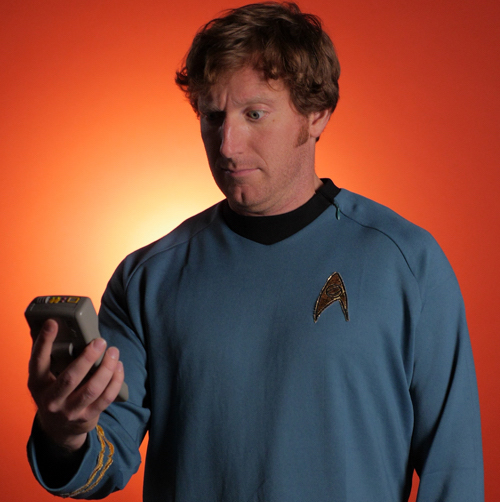
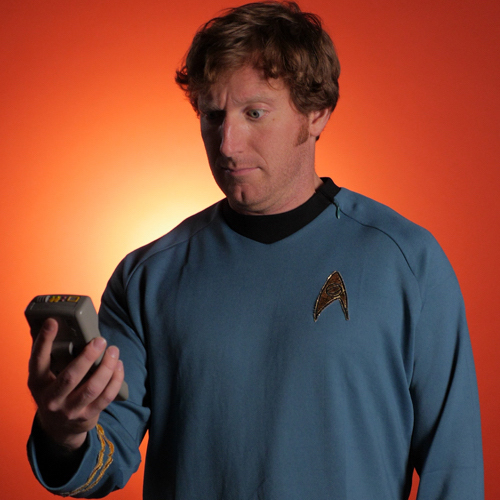
ENH all images 500x500 exactly

diff --git a/2017/pages/organizers.html b/2017/pages/organizers.html
@@ -20,7 +20,7 @@
   <link rel="stylesheet" href="https://ml4health.github.io/2017/theme/css/custom.css">
 
 
-<meta name="description" content="Tim Althoff Stanford, PhD candidate Natasha Antropova U. Chicago, PhD candidate Shubhi Asthana IBM, Research software engineer Adrian Dalca MIT, Postdoc Ina Fiterau Stanford, Postdoc Jason Fries Stanford, Postdoc Marzyeh Ghassemi MIT/Verily, Postdoc Mike Hughes Harvard SEAS, Postdoc Bruno Jedynak Portland State, Faculty Dave Kale USC, PhD candidate Jasvinder …">
+<meta name="description" content="Tim Althoff Stanford, PhD candidate Natasha Antropova U. Chicago, PhD candidate Shubhi Asthana IBM, Research software engineer Adrian Dalca MIT, Postdoc Ina Fiterau Stanford, Postdoc Jason Fries Stanford, Postdoc Marzyeh Ghassemi MIT/Verily, Postdoc Mike Hughes Harvard SEAS, Postdoc Bruno Jedynak Portland State, Faculty Dave Kale Skymind/USC, PhD candidate …">
 </head>
 
 <body>
@@ -250,7 +250,7 @@
             align="center">
         <div class="caption">
             <h5>Dave Kale</h5>
-            <p>USC, PhD candidate</p>
+            <p>Skymind/USC, PhD candidate</p>
             <p></p>
         </div>
         </a>

diff --git a/2017_content/pages/organizers.md b/2017_content/pages/organizers.md
@@ -198,7 +198,7 @@ Date: 2017-06-01
             align="center">
         <div class="caption">
             <h5>Dave Kale</h5>
-            <p>USC, PhD candidate</p>
+            <p>Skymind/USC, PhD candidate</p>
             <p></p>
         </div>
         </a>
